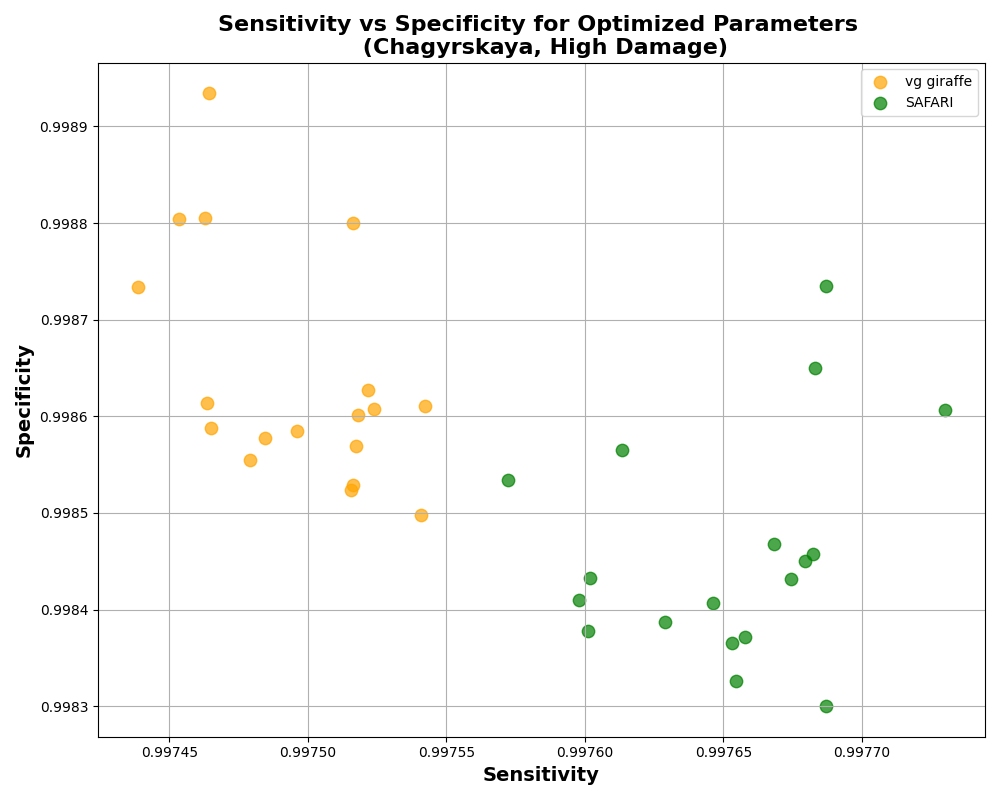
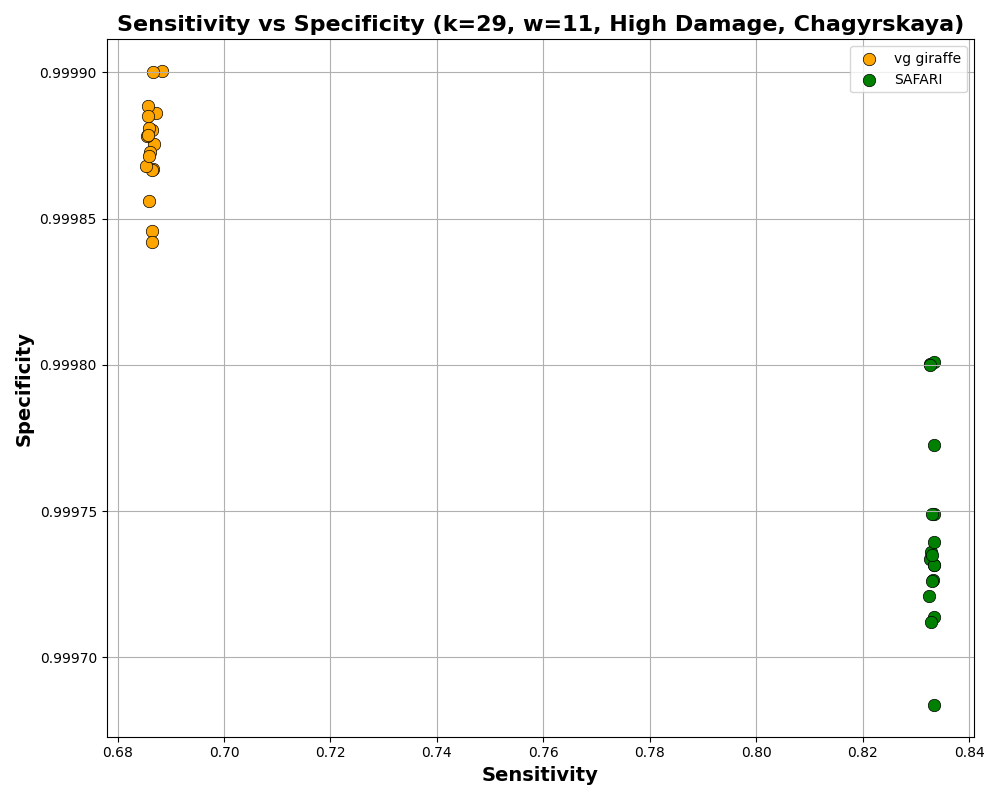
Update

diff --git a/linear_experiment/human_mito/stat_results/plot_svs_high.py b/linear_experiment/human_mito/stat_results/plot_svs_high.py
@@ -1,63 +1,43 @@
 import pandas as pd
 import matplotlib.pyplot as plt
-import numpy as np
 import sys
 
-def calculate_sensitivity(data):
-    # No additional calculation needed for sensitivity, assuming it's already a column in the data
-    return data
-
-def plot_best_sensitivity(data_path):
+def plot_sensitivity_high_damage_k29_w11(data_path, output_path, dist):
     # Load data
     data = pd.read_csv(data_path)
 
-    # Filtering data for 'None' damage level and calculating sensitivity
-    filtered_data = calculate_sensitivity(data[(data['damage_level'] == 'High')].copy())
-    # Get medians of sensitivity grouped by tool, k, and w
-    medians_sensitivity = filtered_data.groupby(['tool', 'k', 'w'])['sensitivity'].median().reset_index()
-    # Identify the best (k,w) combination for each tool based on median sensitivity
-    best_sensitivity = medians_sensitivity.loc[medians_sensitivity.groupby('tool')['sensitivity'].idxmax()]
-    best_sensitivity_data = filtered_data.merge(best_sensitivity[['tool', 'k', 'w']], on=['tool', 'k', 'w'])
-    print(best_sensitivity_data)
+    # Filtering data for 'High' damage level and specific k=29 and w=11
+    filtered_data = data[(data['damage_level'] == 'High') & (data['k'] == 29) & (data['w'] == 11)]
 
     # Plotting
     plt.figure(figsize=(10, 8))
-    
-    # Predefined colors for specific tools
     predefined_colors = {'SAFARI': 'green', 'vg giraffe': 'orange'}
-    
-    # Get a list of all tools to ensure unique colors for those not predefined
-    tools = best_sensitivity_data['tool'].unique()
-    color_palette = plt.cm.get_cmap('hsv', len(tools)) # hsv colormap, adjust as needed
-    
-    # Assign colors ensuring unique colors for each tool
+    tools = filtered_data['tool'].unique()
+    color_palette = plt.cm.get_cmap('hsv', len(tools))
+
     tool_colors = {}
     for i, tool in enumerate(tools):
-        if tool in predefined_colors:
-            tool_colors[tool] = predefined_colors[tool]
-        else:
-            while color_palette(i) in predefined_colors.values(): # Ensure unique color assignment
-                i += 1
-            tool_colors[tool] = color_palette(i)
-    
-    # Plot each tool with its assigned color
-    for tool in tools:
-        tool_data = best_sensitivity_data[best_sensitivity_data['tool'] == tool]
-        plt.scatter(tool_data['sensitivity'], tool_data['specificity'], label=f'{tool}', color=tool_colors[tool], alpha=0.7, s=80)
+        tool_colors[tool] = predefined_colors.get(tool, color_palette(i))
 
-    plt.title('Sensitivity vs Specificity for Optimized Parameters \n (' + sys.argv[3] + ", High Damage)", fontsize=16, fontweight='bold')
+    for tool in tools:
+        tool_data = filtered_data[filtered_data['tool'] == tool]
+        plt.scatter(tool_data['sensitivity'], tool_data['specificity'], label=tool, color=tool_colors[tool], alpha=1.0, edgecolor='black', linewidth=0.5, s=80)
+
+    plt.title(f'Sensitivity vs Specificity (k=29, w=11, High Damage, {dist})', fontsize=16, fontweight='bold')
     plt.xlabel('Sensitivity', fontsize=14, fontweight='bold')
     plt.ylabel('Specificity', fontsize=14, fontweight='bold')
     plt.legend()
     plt.grid(True)
     plt.tight_layout()
-    plt.savefig(sys.argv[2])
+    plt.savefig(output_path)
     plt.show()
 
 if __name__ == '__main__':
     if len(sys.argv) != 4:
-        print("Usage: python script.py <data_path> <output path> <Dist>")
+        print("Usage: python script.py <data_path> <output_path> <Dist>")
         sys.exit(1)
     data_path = sys.argv[1]
-    plot_best_sensitivity(data_path)
+    output_path = sys.argv[2]
+    dist = sys.argv[3]
+    plot_sensitivity_high_damage_k29_w11(data_path, output_path, dist)
 
